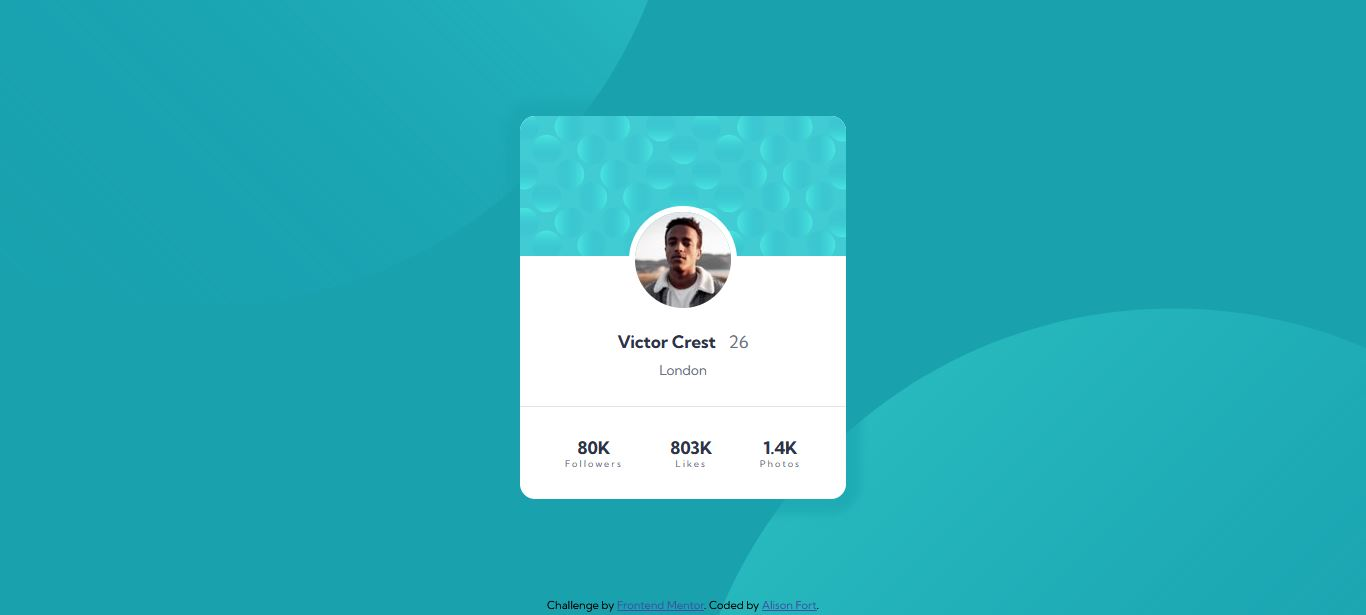
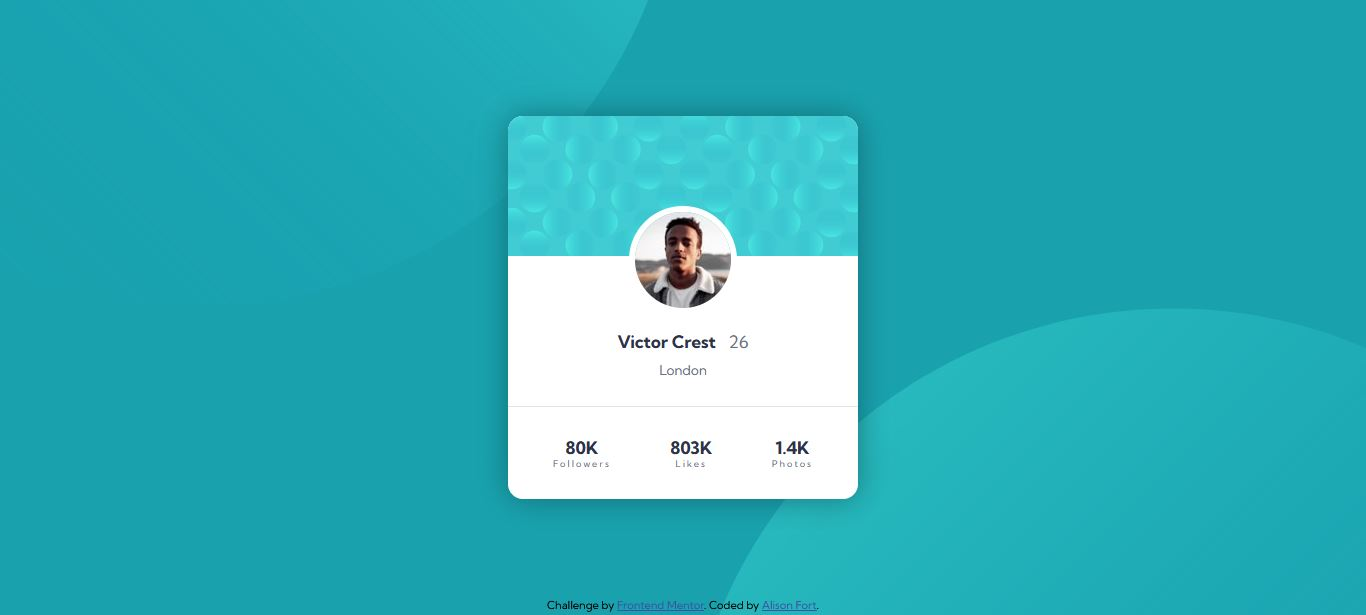
fixed desktop layout and box shadow

Changed region(s): [[0.369, 0.1854, 0.5534, 0.8341], [0.5534, 0.1854, 0.6457, 0.8341]]

diff --git a/styles.css b/styles.css
@@ -39,7 +39,13 @@ main {
   align-items: center;
   justify-content: center;
   position: relative;
-  box-shadow: 0 0 10px 15px rgba(25, 162, 174, 0.6);
+  box-shadow: 0 0 30px 0 rgba(11, 77, 83, 0.6);
+}
+
+@media only screen and (min-width: 500px) {
+  main {
+    width: 350px;
+  }
 }
 
 .avatar {
